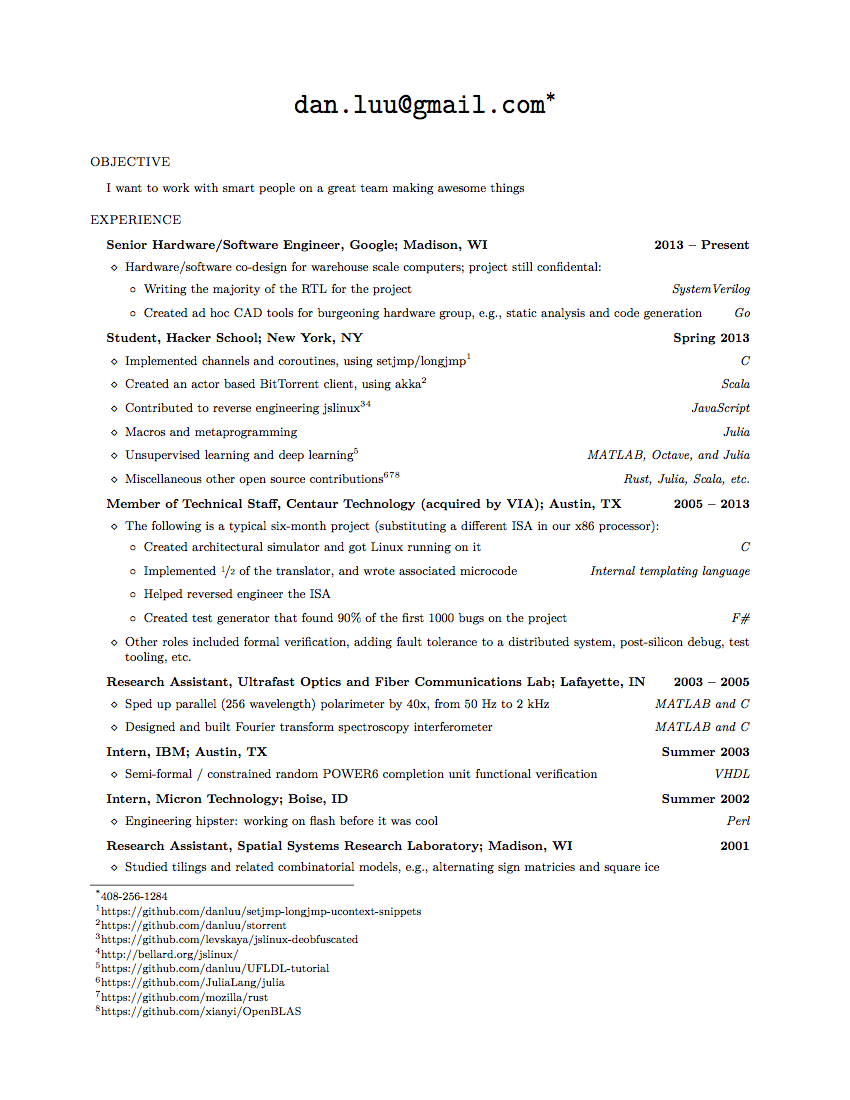
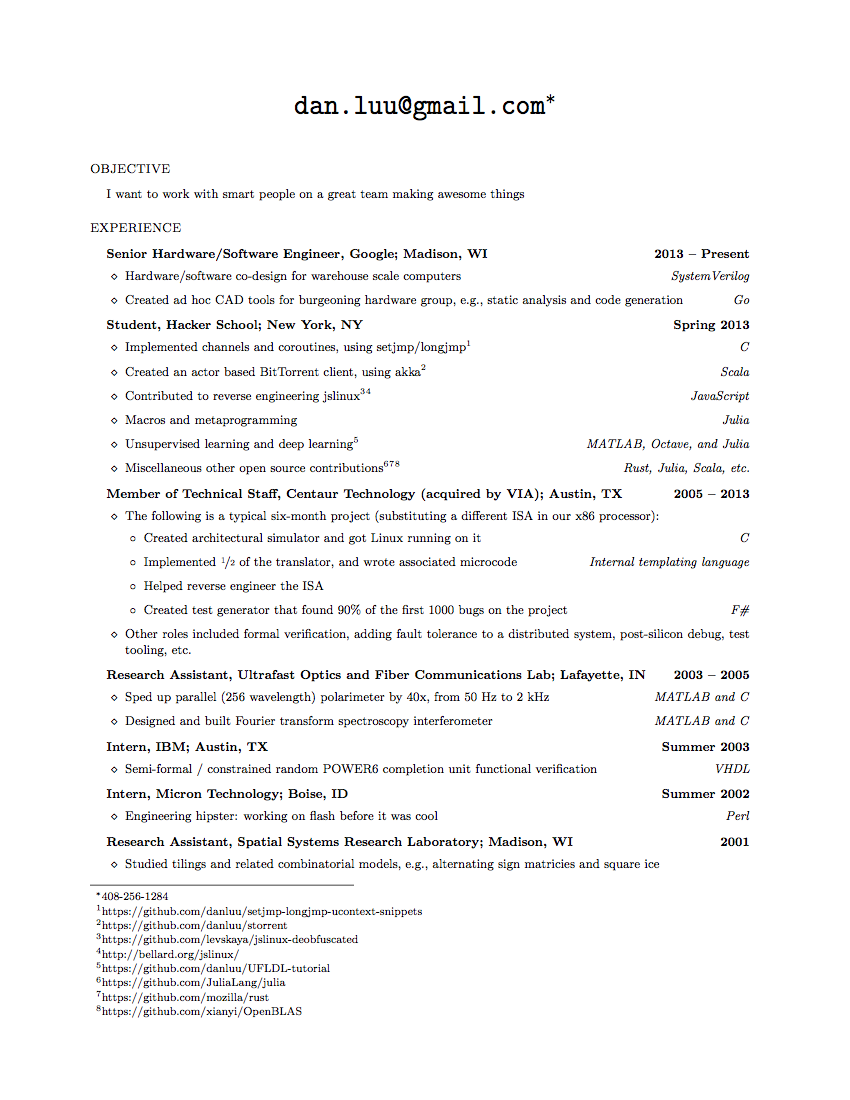
Fix issue #1 and other minor changes (thanks @jayschwa)

diff --git a/resume.tex b/resume.tex
@@ -54,11 +54,8 @@
 \item \begin{tabular1bold} Senior Hardware/Software Engineer, Google; Madison, WI & 2013 -- Present \end{tabular1bold}
 
   \begin{list2}
-  \item Hardware/software co-design for warehouse scale computers; project still confidental:
-    \begin{list3}
-    \item Writing the majority of the RTL for the project \hfill \emph{SystemVerilog}
-    \item Created ad hoc CAD tools for burgeoning hardware group, e.g., static analysis and code generation \hfill \emph{Go}
-    \end{list3}
+  \item Hardware/software co-design for warehouse scale computers \hfill \emph{SystemVerilog} %FIXME: mixing tenses
+  \item Created ad hoc CAD tools for burgeoning hardware group, e.g., static analysis and code generation \hfill \emph{Go}
   \end{list2}
 
 \item \begin{tabular1bold} Student, Hacker School; New York, NY & Spring 2013 \end{tabular1bold}
@@ -80,7 +77,7 @@
     \begin{list3}
     \item Created architectural simulator and got Linux running on it\hfill \emph{C}
     \item Implemented \nicefrac{1}{2} of the translator, and wrote associated microcode \hfill \emph{Internal templating language}
-    \item Helped reversed engineer the ISA
+    \item Helped reverse engineer the ISA
     \item Created test generator that found 90\% of the first 1000 bugs on the project \hfill \emph{F\#}
     \end{list3}
   \item Other roles included formal verification, adding fault tolerance to a distributed system, post-silicon debug, test tooling, etc.
@@ -169,7 +166,7 @@
 \item \begin{tabular1bold} Intern, Micron Technology; Boise, ID & Summer 2002 \end{tabular1bold}
 
   \begin{list2}
-  \item Engineering hipster: working on flash before it was cool \hfill \emph{Perl}
+  \item Engineering hipster: worked on flash before it was cool \hfill \emph{Perl}
   \end{list2}
 \item \begin{tabular1bold} Research Assistant, Spatial Systems Research Laboratory; Madison, WI & 2001 \end{tabular1bold}
 
